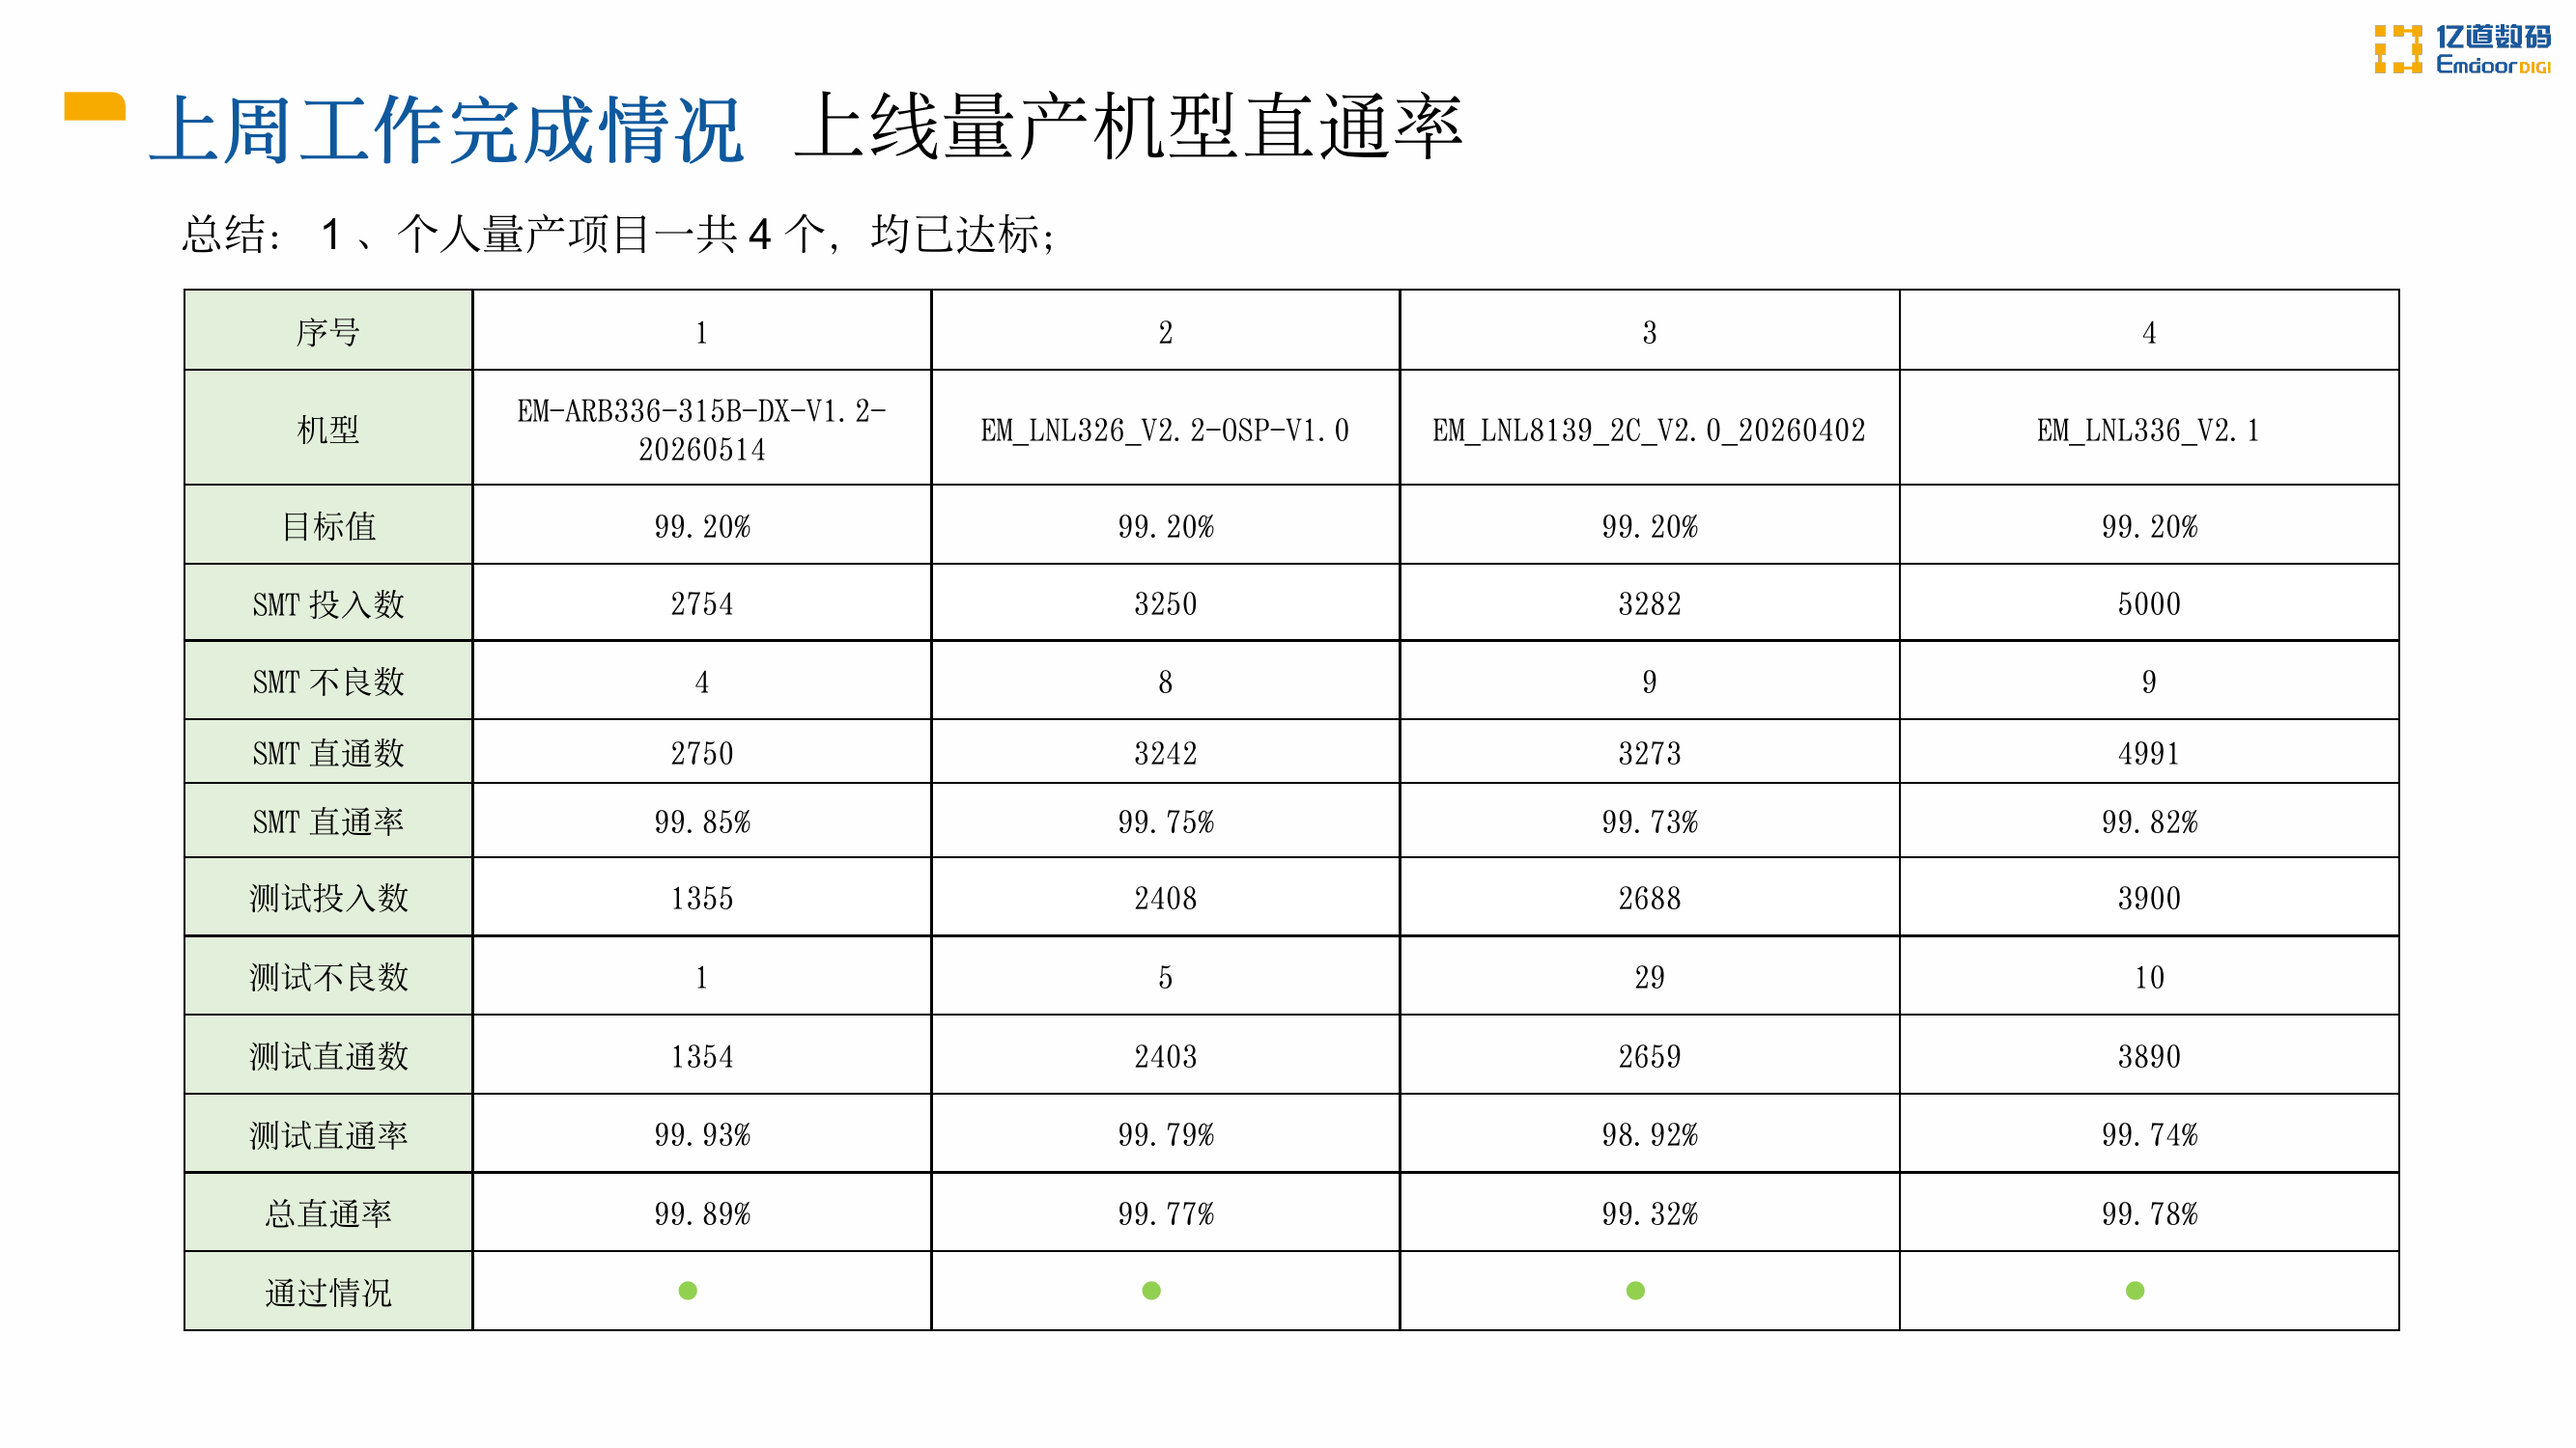
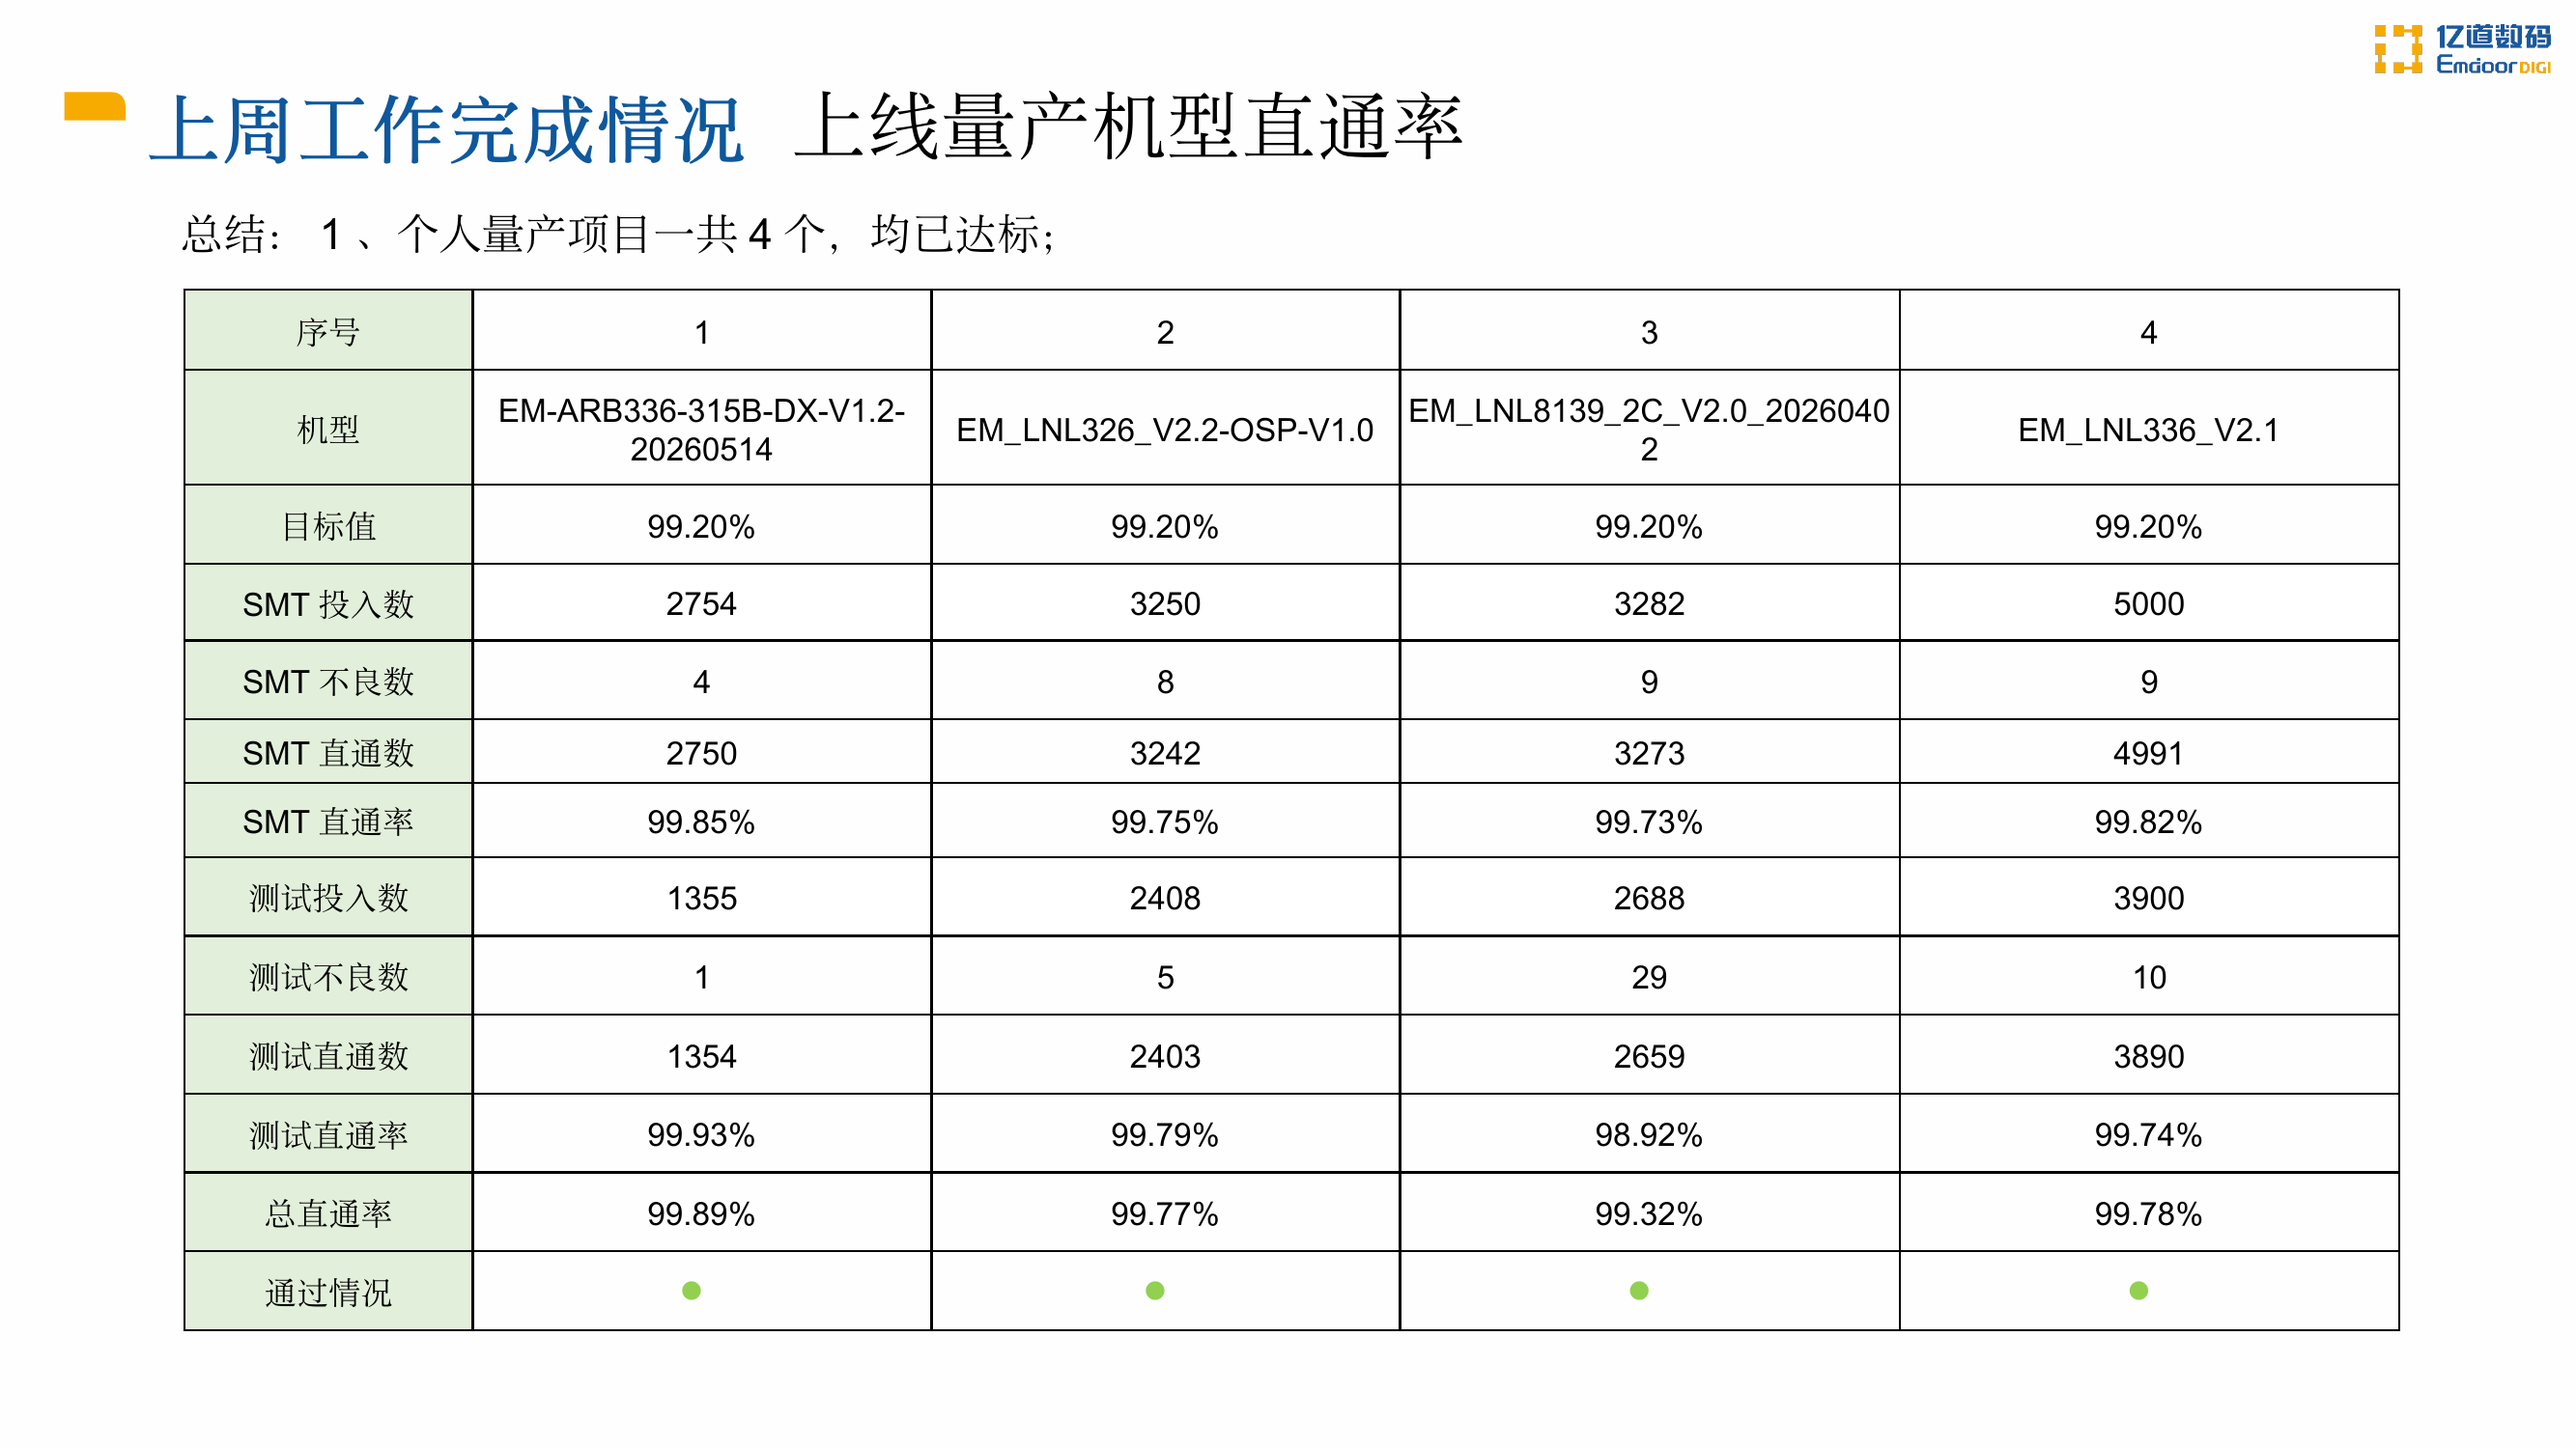
更新 WK31 周例会幻灯片

diff --git a/wk31/index.html b/wk31/index.html
@@ -13,13 +13,13 @@
   </style>
 </head>
 <body>
-  <img class="slide active" src="./slides/slide-1.png?v=20260803000346" alt="Slide 1" />
-  <img class="slide" src="./slides/slide-2.png?v=20260803000346" alt="Slide 2" />
-  <img class="slide" src="./slides/slide-3.png?v=20260803000346" alt="Slide 3" />
-  <img class="slide" src="./slides/slide-4.png?v=20260803000346" alt="Slide 4" />
-  <img class="slide" src="./slides/slide-5.png?v=20260803000346" alt="Slide 5" />
-  <img class="slide" src="./slides/slide-6.png?v=20260803000346" alt="Slide 6" />
-  <img class="slide" src="./slides/slide-7.png?v=20260803000346" alt="Slide 7" />
+  <img class="slide active" src="./slides/slide-1.png?v=20260803001323" alt="Slide 1" />
+  <img class="slide" src="./slides/slide-2.png?v=20260803001323" alt="Slide 2" />
+  <img class="slide" src="./slides/slide-3.png?v=20260803001323" alt="Slide 3" />
+  <img class="slide" src="./slides/slide-4.png?v=20260803001323" alt="Slide 4" />
+  <img class="slide" src="./slides/slide-5.png?v=20260803001323" alt="Slide 5" />
+  <img class="slide" src="./slides/slide-6.png?v=20260803001323" alt="Slide 6" />
+  <img class="slide" src="./slides/slide-7.png?v=20260803001323" alt="Slide 7" />
   <div class="page-indicator" id="pageIndicator"></div>
   <script>
     const slides = Array.from(document.querySelectorAll(".slide"));
